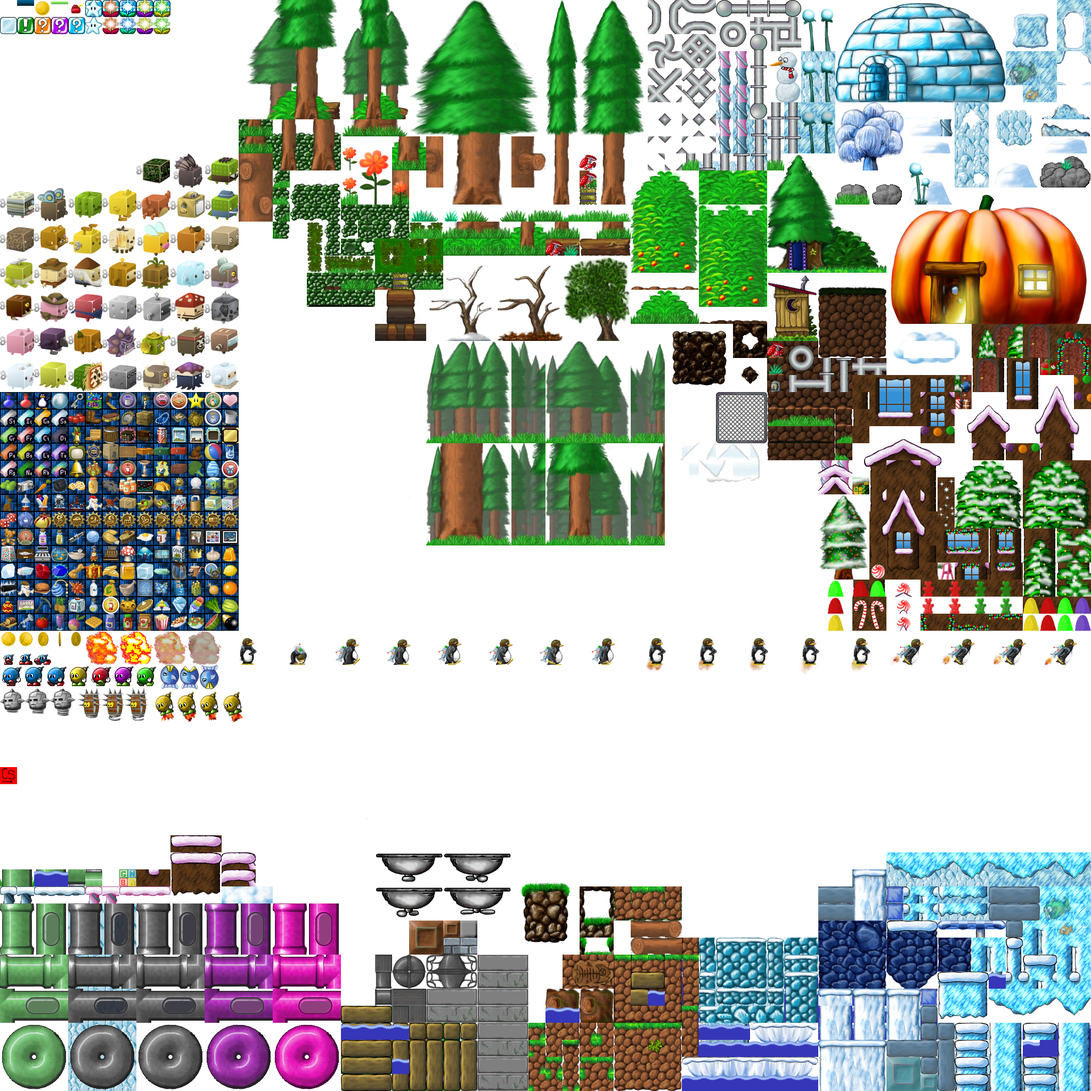
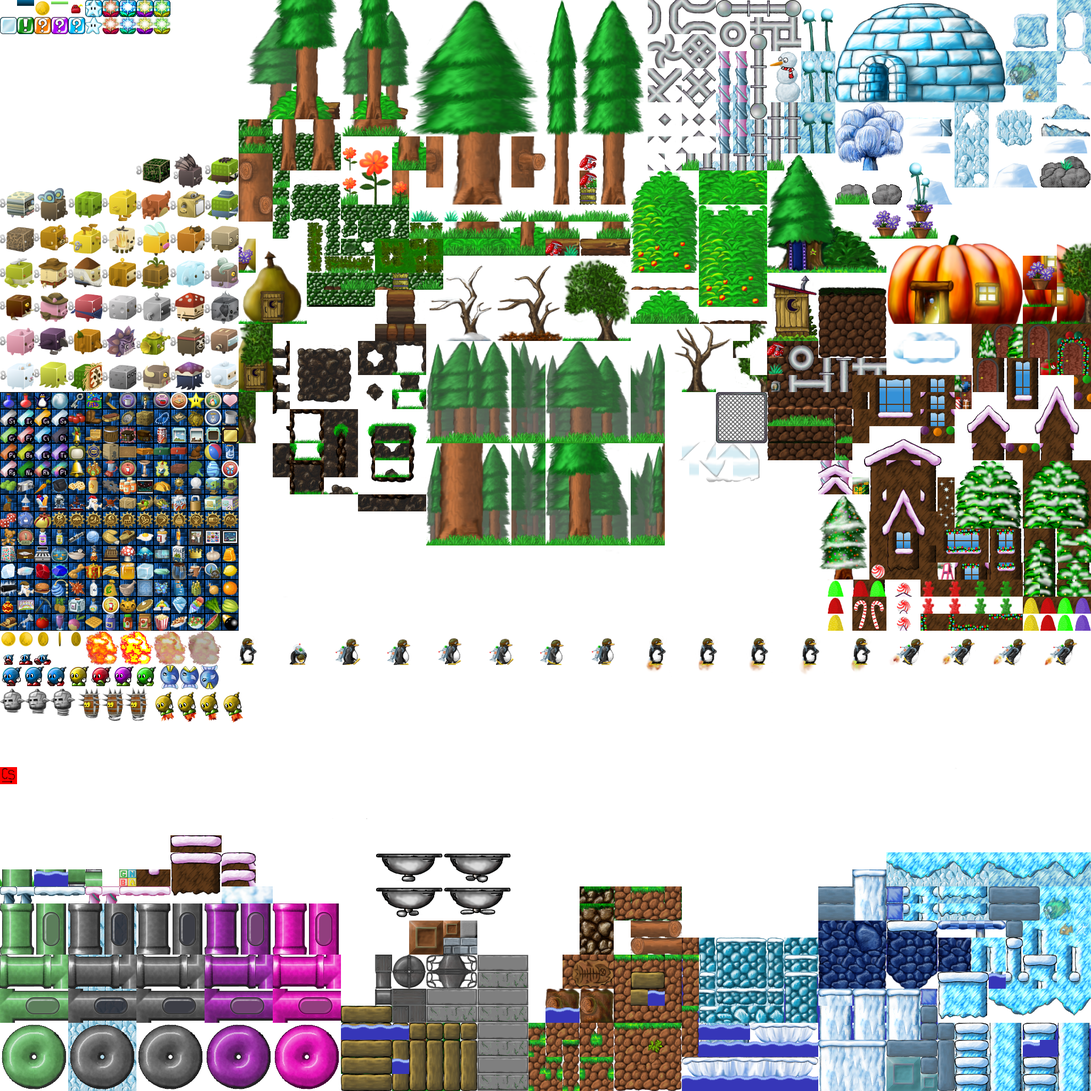
Started tilemap for Forest2 (I made an outhouse out of a pear! lol...)

diff --git a/src/preload.js b/src/preload.js
@@ -66,7 +66,7 @@ RocketTux.Preload.prototype = {
     RocketTux.luck = 0, // Increases chance to get rare loot
     
     RocketTux.unlocks = {
-        themes:'snow1,snow2,forest1,candyland', // Unlocks: snow3, forest2, candyland, beach, beachfront
+        themes:'snow1,snow2,forest1,candyland,forest2', // Unlocks: snow3, forest2, candyland, beach, beachfront
         timesOfDay: 'sunrise,day,sunset,night', // Unlocks: supertuxDay, supertuxNight
         levelSectionsMin: 5, // Unlocks: Upto +5
         levelSectionsMax: 12, // Unlocks: Upto +3
@@ -873,7 +873,33 @@ RocketTux.Preload.prototype = {
         ],
     };
     
-    RocketTux.forest2 = {};
+    RocketTux.forest2 = {
+        a:[
+            '0,0,0,0,0,0,0,0,0,0,0,0,0,0,0,0,0,0,0,0,0,0,0,0,0,0,0,0,0,0,0,0,0,0,0,0,0,0,0,0,',
+            '0,0,0,0,0,0,0,0,0,0,0,0,0,1268,1269,1270,1271,1272,0,0,0,0,0,0,0,0,0,0,0,0,0,0,0,0,0,0,0,0,0,0,',
+            '0,0,0,0,0,0,0,0,0,0,0,0,0,1332,3341,3342,3343,1336,0,0,0,0,0,0,0,0,0,0,0,0,0,0,0,0,0,0,0,0,0,0,',
+            '0,0,0,0,0,0,0,0,0,0,0,0,0,1396,1397,1398,1399,1400,0,0,0,0,0,0,0,0,0,0,0,0,0,0,0,0,0,0,0,0,0,0,',
+            '0,0,0,0,0,0,0,0,0,0,0,0,0,0,0,0,0,0,0,0,0,0,0,0,0,0,0,0,0,0,0,0,0,0,0,0,0,0,0,0,',
+            '0,0,0,0,0,0,0,0,0,0,0,0,0,0,0,0,0,0,0,0,0,0,0,0,0,0,0,0,0,0,0,0,0,0,0,0,0,0,0,0,',
+            '0,0,0,0,0,0,0,0,0,0,0,0,0,0,0,0,0,0,0,0,0,0,0,0,0,0,0,0,0,0,0,0,0,0,0,0,0,0,0,0,',
+            '0,0,1268,1269,1270,1271,1272,0,0,0,0,0,0,0,0,0,0,0,0,0,0,0,0,0,0,0,0,1268,1269,1270,1271,1272,0,0,0,0,0,0,0,0,',
+            '0,0,1332,3341,3342,3343,1336,0,0,0,0,0,0,0,0,0,0,0,0,0,0,0,0,0,0,0,0,1332,3341,3342,3343,1336,0,0,0,0,0,0,0,0,',
+            '0,0,1396,1397,1398,1399,1400,0,0,0,0,0,0,0,0,0,0,0,0,0,0,0,0,0,0,0,0,1396,1397,1398,1399,1400,0,0,0,0,0,0,0,0,',
+            '0,0,0,0,0,0,0,0,0,0,0,0,0,0,0,0,0,0,1268,1269,1270,1271,1272,0,0,0,0,0,0,0,0,0,0,0,0,0,0,0,0,0,',
+            '0,0,0,0,0,0,0,0,0,0,0,0,0,0,0,0,0,0,1332,3341,3342,3343,1336,0,0,0,0,0,0,0,0,0,0,0,0,0,0,0,0,0,',
+            '0,0,0,0,0,0,0,0,0,0,0,0,0,0,0,0,0,0,1396,1397,1398,1399,1400,0,0,0,0,0,0,0,0,0,0,0,0,0,0,0,0,0,',
+            '0,0,0,0,0,0,0,0,0,0,0,0,0,0,0,0,0,0,0,0,0,0,0,0,0,0,0,0,0,0,0,0,0,0,0,0,0,0,0,0,',
+            '0,0,0,0,0,0,0,0,0,0,0,0,0,0,0,0,0,0,0,0,0,0,0,0,0,0,0,0,0,0,0,0,0,0,0,0,0,0,0,0,',
+            '0,0,0,0,0,0,0,0,1557,1558,1559,1558,1560,0,0,1557,1558,1559,1558,1560,0,0,0,0,0,0,0,0,0,0,0,0,887,888,0,0,0,0,0,0,',
+            '0,0,0,0,0,0,0,1557,1682,3427,3427,3427,1624,0,1557,1682,3427,3427,3427,1624,0,0,0,0,0,993,994,995,996,948,949,950,951,952,953,958,959,995,996,0,',
+            '0,0,0,0,1557,1558,1559,1682,3363,3491,3554,3554,1424,1812,1682,3363,3491,3554,3554,1424,1430,0,0,0,0,1230,1231,1059,1060,1012,1013,1014,1015,1016,1017,1022,1023,1059,1060,0,',
+            '0,0,0,1557,1682,3427,3427,3363,3554,3554,1745,1878,1680,1619,3363,3554,3554,1745,1879,1880,1365,1430,0,0,1038,1294,1295,1486,1124,1076,1077,1078,1079,1080,1081,1086,1087,1123,1260,0,',
+            '0,0,1557,1682,3363,3491,3554,3490,3554,1745,1680,1362,1427,1877,1878,1879,1878,1680,1362,1362,1362,1365,1430,819,910,1358,1359,1550,1188,1140,1141,1142,1143,1020,1021,1150,1151,1323,1324,0,',
+            '1559,1558,1682,3363,3555,3554,3490,3554,3554,1809,1622,1623,1622,1623,1622,1623,1622,1623,1622,1622,1622,1623,1432,883,974,1422,1423,1614,1252,1148,1149,1206,1207,1084,1085,1214,1215,1449,1559,1559,',
+            '3426,3427,3363,3554,3554,3490,3490,3554,3490,3362,3427,3427,3427,3427,3426,3427,3426,3427,3427,3427,3427,3427,3427,3427,3426,3427,3427,3427,3427,3427,3427,3427,3426,3427,3427,3427,3427,3427,3426,3427,',
+            '3490,3554,3554,3490,3555,3491,3491,3555,3490,3490,3491,3554,3491,3490,3555,3491,3490,3491,3490,3491,3490,3554,3490,3555,3490,3491,3554,3490,3490,3491,3555,3555,3490,3490,3555,3491,3554,3554,3490,3555,'
+        ],  
+    };
     
     RocketTux.beach = {};
     
